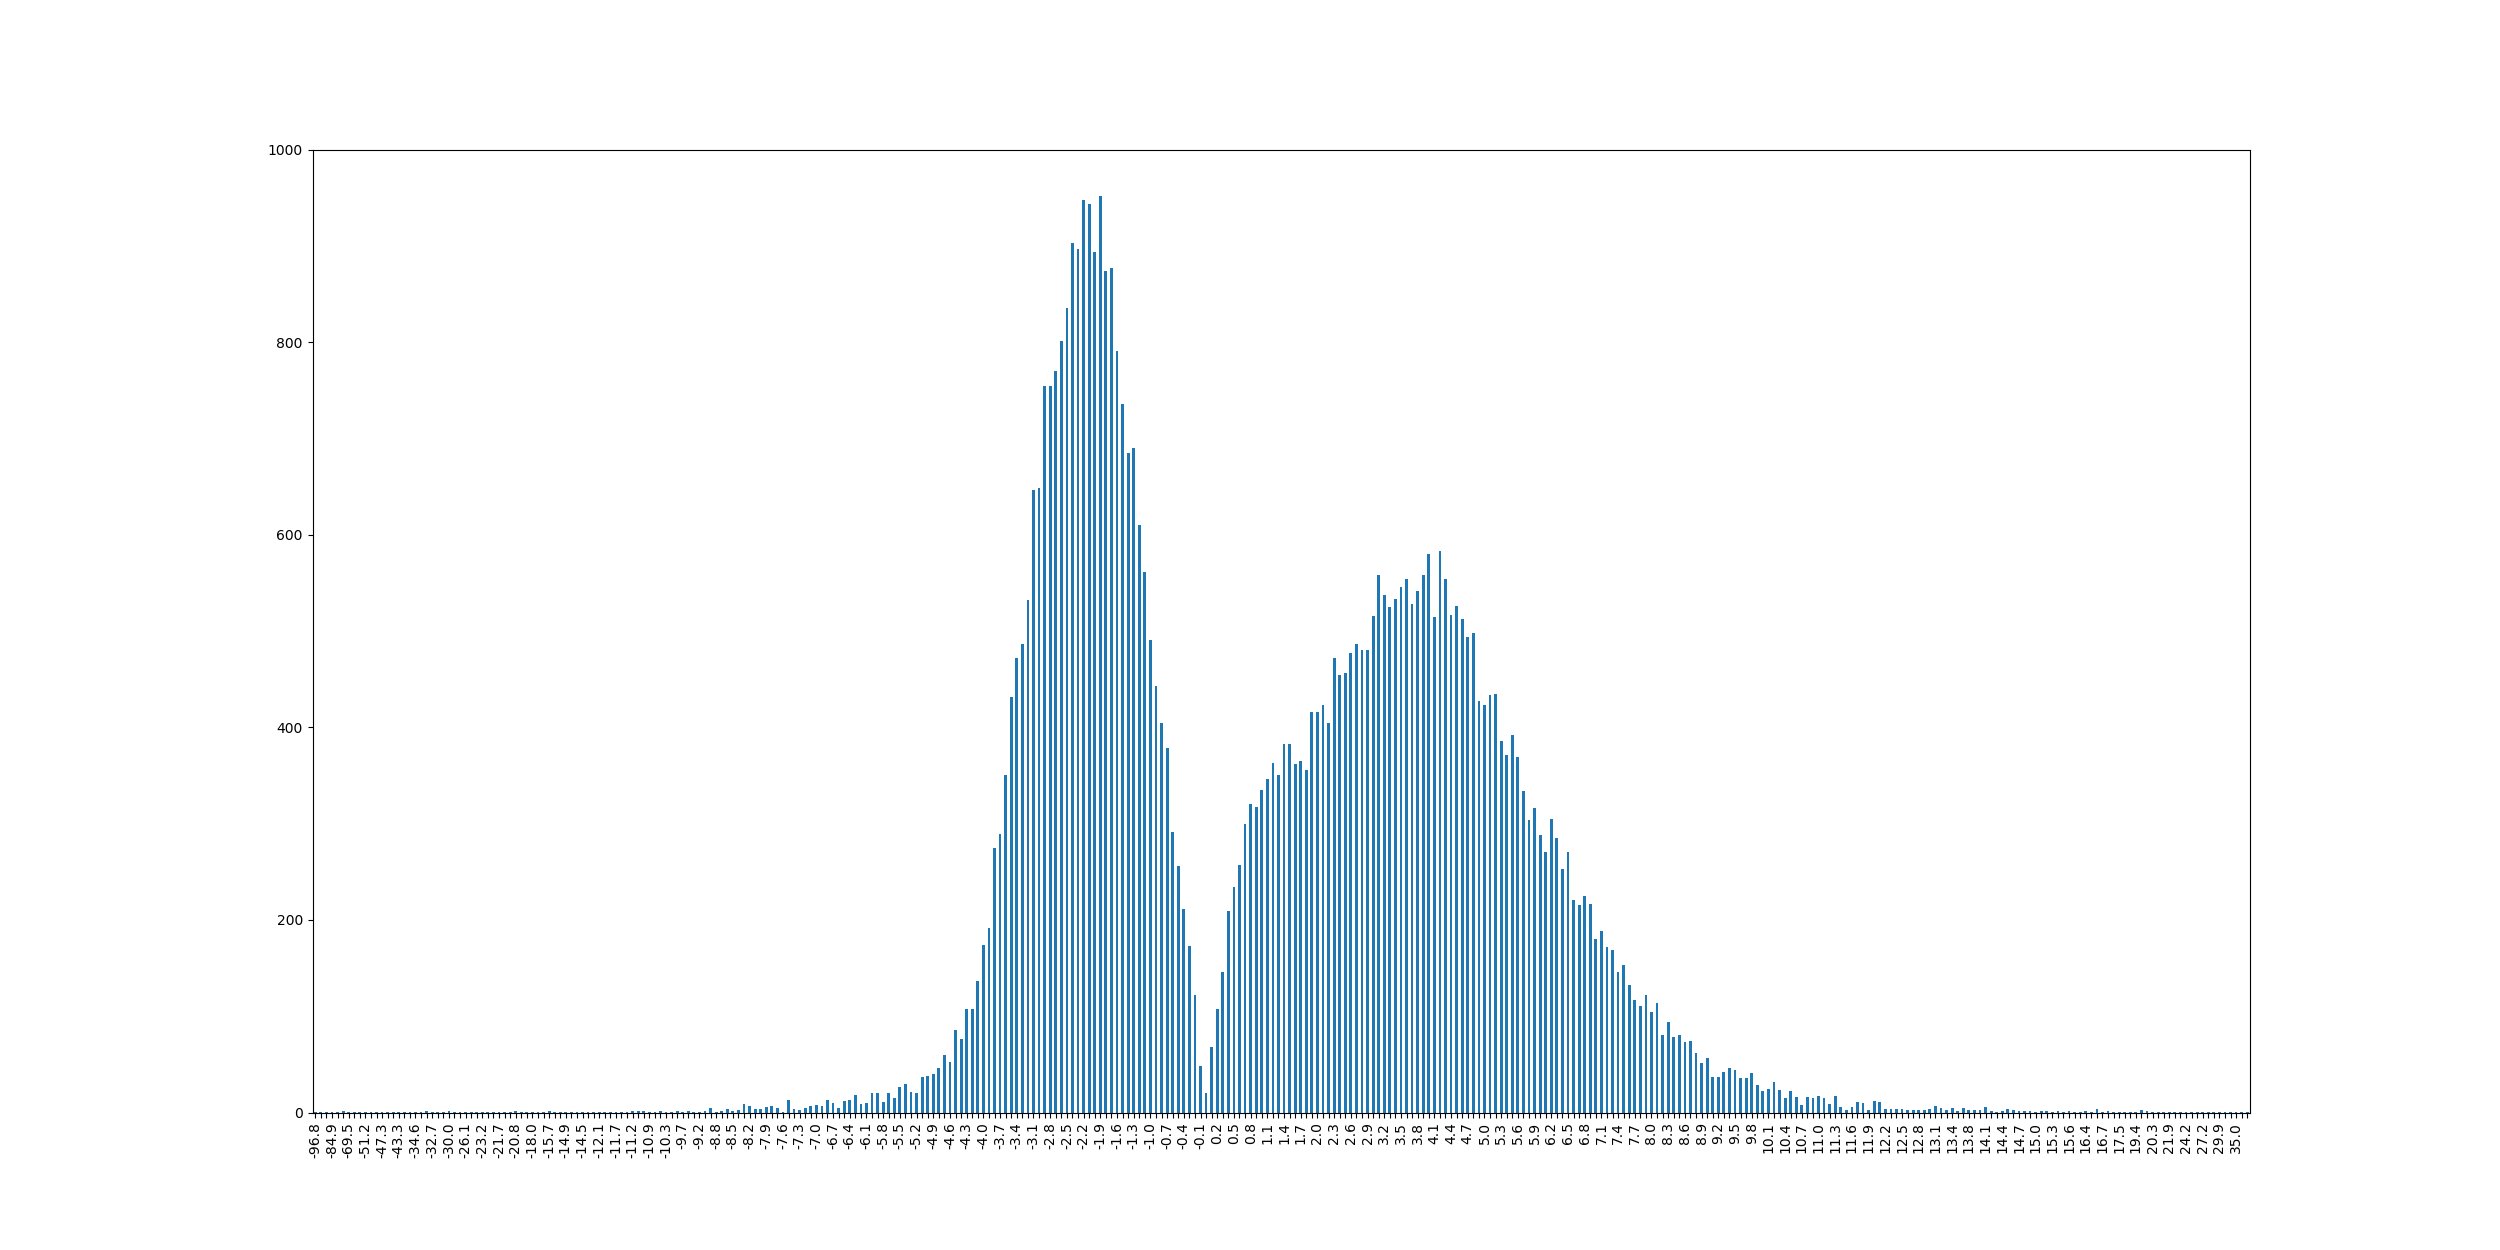
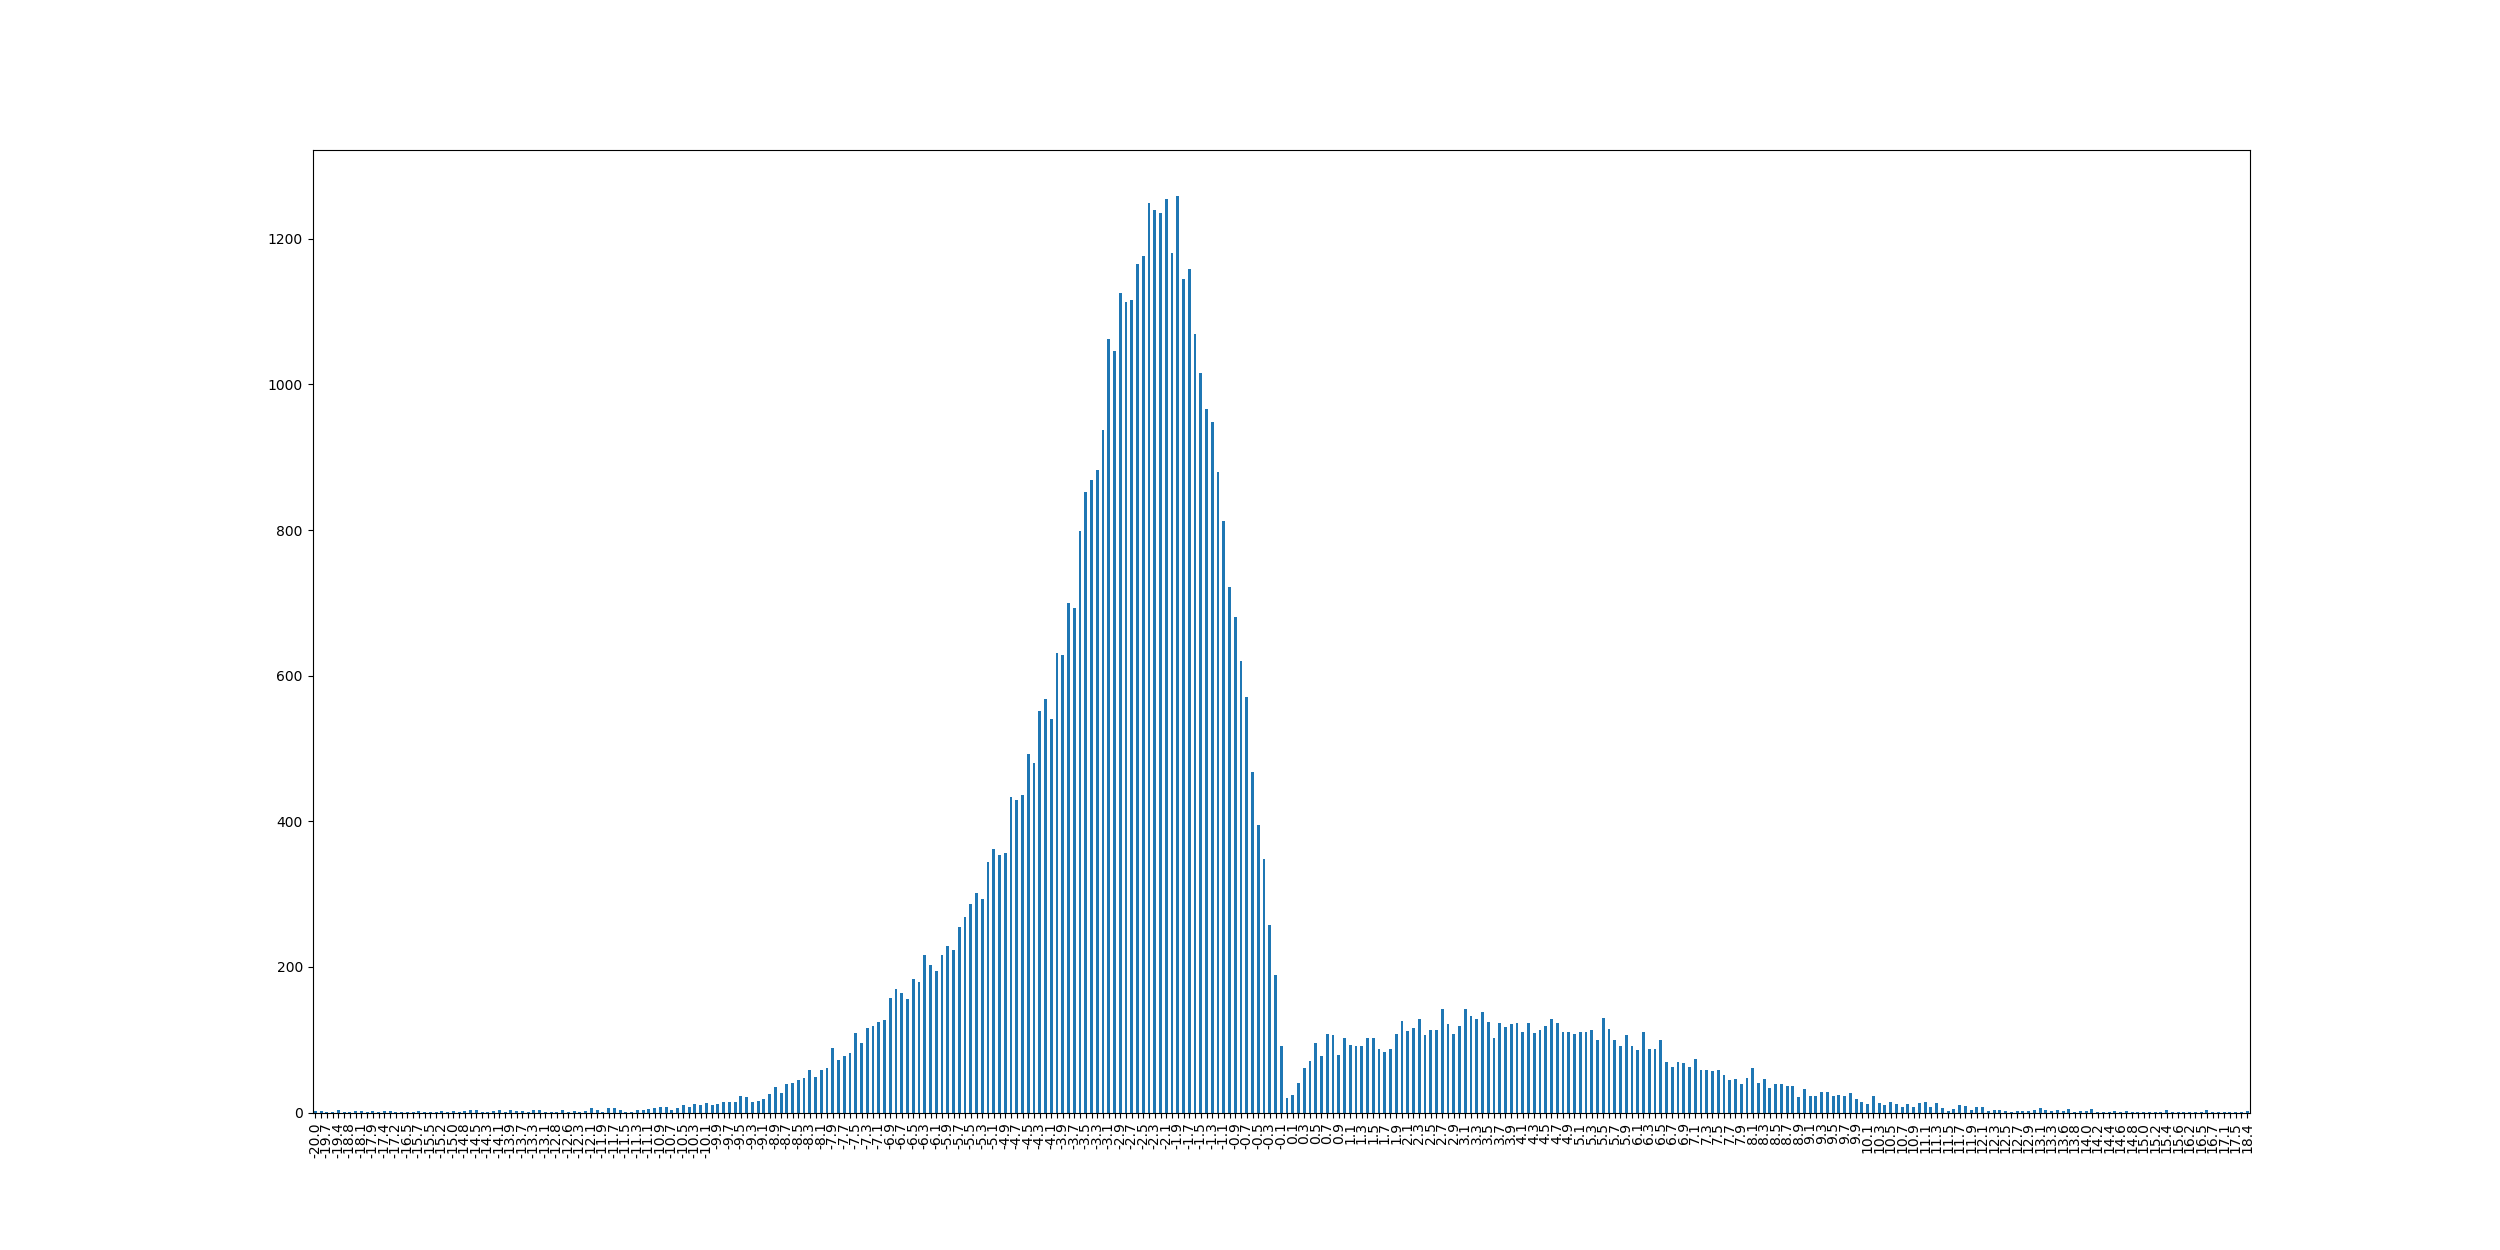
updated plot locomotion function for 3d locmotion and added function to find clusters of locomotion

Changed region(s): [[0.1248, 0.156, 0.9048, 0.936]]

diff --git a/src/analysis.py b/src/analysis.py
@@ -4,6 +4,7 @@
 import reader
 import matplotlib.pyplot as plt
 from functions import *
+from sklearn.cluster import KMeans
 import pandas as pd
 import numpy as np
 
@@ -88,6 +89,7 @@ def plot_locomotion(paths, path_to_save, round):
     round will round to one decimal place (round = 2 -> all values will be of the form x.yz)
     Creates Bar Plots for the Dataframes, one for linear_movement and for angle_radians
     """
+    #right now it thinks that 0 and 2*pi are not the same for pos and ori, maybe find a solution for it
     df_list = []
     for path in paths:
         df_list.append(pd.read_csv(path, sep = ";"))
@@ -95,14 +97,15 @@ def plot_locomotion(paths, path_to_save, round):
     #round values
     df_all = df_all.round(round)
 
-    #get all linear_movement columns respectivly all angle_radians columns
+    #get all linear_movement columns respectivly all angle columns
     mov_cols = [col for col in df_all.columns if "linear_movement" in col]
-    ang_cols = [col for col in df_all.columns if "angle_radians" in col]
+    ang_pos_cols = [col for col in df_all.columns if "angle_new_pos" in col]
+    ang_ori_cols = [col for col in df_all.columns if "angle_change_orientation" in col]
 
     #melt linear_movement columns together in one
-    df_mov = df_all[mov_cols].melt(var_name = "columns", value_name = "value")
+    df_temp = df_all[mov_cols].melt(var_name = "columns", value_name = "value")
     #count the values and plot it
-    ax = df_mov["value"].value_counts().sort_index().plot.bar()
+    ax = df_temp["value"].value_counts().sort_index().plot.bar()
     for i, t in enumerate(ax.get_xticklabels()):
         if (i % 2) != 0:
             t.set_visible(False)
@@ -110,23 +113,62 @@ def plot_locomotion(paths, path_to_save, round):
     fig.set_size_inches(25, 12.5)
     fig.savefig(path_to_save + "plot_linear_movement.png")
 
-    df_ang = df_all[ang_cols].melt(var_name = "columns", value_name = "value")
-    ax = df_ang["value"].value_counts().sort_index().plot.bar()
+    df_temp = df_all[ang_pos_cols].melt(var_name = "columns", value_name = "value")
+    ax = df_temp["value"].value_counts().sort_index().plot.bar()
     for i, t in enumerate(ax.get_xticklabels()):
-        if (i % 3) != 0:
+        if (i % 2) != 0:
             t.set_visible(True)
     fig = ax.get_figure()
     fig.set_size_inches(25, 12.5)
-    fig.savefig(path_to_save + "plot_angle_radians.png")
+    fig.savefig(path_to_save + "plot_angle_new_pos.png")
 
+    df_temp = df_all[ang_ori_cols].melt(var_name = "columns", value_name = "value")
+    ax = df_temp["value"].value_counts().sort_index().plot.bar()
+    fig = ax.get_figure()
+    fig.set_size_inches(25, 12.5)
+    fig.savefig(path_to_save + "plot_angle_change_orientation.png")
+
+def getClusters(paths, path_to_save, round, count_clusters):
+    """
+    paths should be iterable
+    path_to_save is the folder in which it will be saved
+    round will round to one decimal place (round = 2 -> all values will be of the form x.yz)
+    Finds count_clusters cluster centers for the dataframes (for mov, pos, ori) and saves these clusters
+    """
+    #right now it thinks that 0 and 2*pi are not the same for pos and ori, maybe find a solution for it
+    df_list = []
+    for path in paths:
+        df_list.append(pd.read_csv(path, sep = ";"))
+    df_all = pd.concat(df_list)
+    #round values
+    df_all = df_all.round(round)
+
+    #get all linear_movement columns respectivly all angle columns
+    mov_cols = [col for col in df_all.columns if "linear_movement" in col]
+    ang_pos_cols = [col for col in df_all.columns if "angle_new_pos" in col]
+    ang_ori_cols = [col for col in df_all.columns if "angle_change_orientation" in col]
+
+    df_mov = df_all[mov_cols].melt(var_name = "columns", value_name = "value")
+    df_pos = df_all[ang_pos_cols].melt(var_name = "columns", value_name = "value")
+    df_ori = df_all[ang_ori_cols].melt(var_name = "columns", value_name = "value")
+
+    kmeans_mov = KMeans(n_clusters = count_clusters).fit(df_mov["value"].to_numpy().reshape(-1, 1))
+    kmeans_pos = KMeans(n_clusters = count_clusters).fit(df_pos["value"].to_numpy().reshape(-1, 1))
+    kmeans_ori = KMeans(n_clusters = count_clusters).fit(df_ori["value"].to_numpy().reshape(-1, 1))
+
+    np_array = np.append(np.append(np.array(kmeans_mov.cluster_centers_), np.array(kmeans_pos.cluster_centers_), axis = 1), np.array(kmeans_ori. cluster_centers_), axis = 1)
+
+    df_clusters = pd.DataFrame(data = np_array, columns = ["clusters_mov", "clusters_pos", "clusters_ori"])
+    df_clusters.to_csv(path_to_save + "clusters.csv", sep = ";")
 
 def main():
-    file = "data/sleap_1_Diffgroup1-1.h5"
-    fish1 = reader.extract_coordinates(file, [b'center'], [0])
-    fish2 = reader.extract_coordinates(file, [b'center'], [1])
-    tracks = reader.extract_coordinates(file, [b'center'], [0,1,2])
+    # file = "data/sleap_1_Diffgroup1-1.h5"
+    # fish1 = reader.extract_coordinates(file, [b'center'], [0])
+    # fish2 = reader.extract_coordinates(file, [b'center'], [1])
+    # tracks = reader.extract_coordinates(file, [b'center'], [0,1,2])
 
-    plot_follow(tracks)
+    # plot_follow(tracks)
+    getClusters(["data/locomotion_data.csv"], "data/", 2, 20)
 
 
 if __name__ == "__main__":
